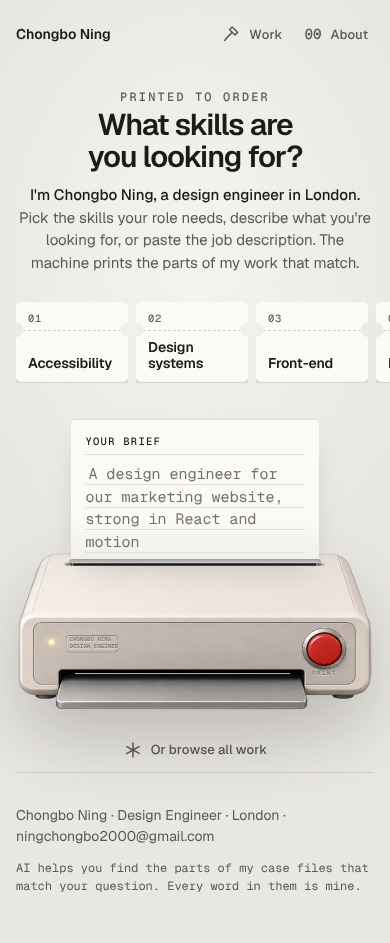
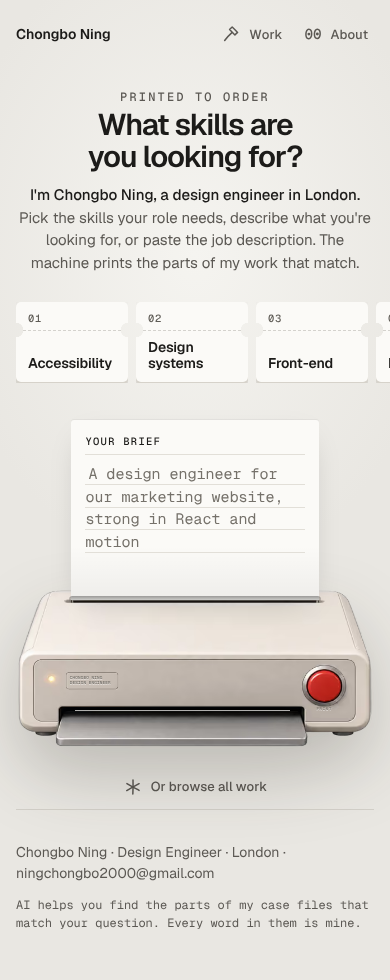
Home: one screen per sheet, a quieter ticket, text that fits the plate
Printed sheets on the wide strip now have one fixed height (one screen, at most
720px); the evidence scales down to fit whatever room the words leave (FitMedia,
never cropped), and the footer sits at the bottom of every sheet.

The taken ticket is just its dashed outline; "In the machine" is gone. The copy
in flight is a plain stub (no mask or filter) animated on transform alone, and
the row for tickets on the paper is always there, so a landing ticket no longer
makes the sheet grow and the machine shift. The paper's pre-measure height now
equals its real idle height, so nothing moves on load.

The engraved name plate and the word under the button are sized from the
machine's own width (container units), so they fit at every size instead of
being cut off.

Claude-Session: https://claude.ai/code/session_01QqmSAfmNMzTCx9ZFJoDrrH

diff --git a/src/app/printer.css b/src/app/printer.css
@@ -90,11 +90,7 @@
   mask-clip: no-clip;
   mask-composite: intersect;
   filter: drop-shadow(0 2px 0 #d6d2ca) drop-shadow(0 12px 10px rgba(40, 30, 20, 0.2));
-  transition:
-    transform 0.25s var(--ease),
-    filter 0.25s,
-    background-color 0.25s,
-    color 0.25s;
+  transition: transform 0.25s var(--ease);
 }
 /* perforation between the stub (number) and the ticket (name) */
 .topic::before {
@@ -119,7 +115,6 @@
 }
 .topic:hover {
   transform: translateY(-4px) rotate(-0.6deg);
-  filter: drop-shadow(0 2px 0 #d6d2ca) drop-shadow(0 18px 14px rgba(40, 30, 20, 0.26));
 }
 .topic:focus-visible {
   outline: 2px solid var(--focus);
@@ -143,40 +138,28 @@
 .topic[aria-pressed="true"] b {
   opacity: 0.55;
 }
-.topic .taken {
-  display: none;
+.topic[aria-pressed="true"]:hover b {
+  opacity: 0.8;
 }
-.topic[aria-pressed="true"] .taken {
-  display: block;
-  position: absolute;
-  left: 12px;
-  bottom: 10px;
-  font: 500 10px var(--mono);
-  letter-spacing: 0.08em;
-  text-transform: uppercase;
-  color: var(--red);
-  opacity: 0;
-  transition: opacity 0.2s;
-}
-.topic[aria-pressed="true"]:hover .taken,
-.topic[aria-pressed="true"]:focus-visible .taken {
-  opacity: 1;
-}
-.topic[aria-pressed="true"]:hover b,
-.topic[aria-pressed="true"]:focus-visible b {
-  opacity: 0;
-}
+/* the copy in flight: a plain stub (no notches or filter, which are costly to animate), lifted off the page */
 .topic.flying {
   transform: none;
   transition: none;
-  filter: drop-shadow(0 18px 16px rgba(40, 30, 20, 0.3));
+  mask-image: none;
+  filter: none;
+  box-shadow: 0 18px 24px -8px rgba(40, 30, 20, 0.35);
+  will-change: transform, opacity;
+}
+.topic.flying::before {
+  display: none;
 }
 
 /* ---------- the printer ----------
    Sized so the whole machine, with the paper above it, sits in the first screen on a laptop:
    the width follows the viewport height, between 440px and 680px, and the paper's idle height scales with it. */
 .stage {
-  --ph: clamp(100px, 13vh, 136px);
+  /* the paper's height before it is measured: label, three ruled lines and the row for tickets, so nothing jumps on load */
+  --ph: 170px;
   position: relative;
   width: clamp(440px, calc((100svh - 500px) * 2.2), 680px);
   max-width: 100%;
@@ -188,6 +171,8 @@
   position: relative;
   aspect-ratio: 1100 / 494;
   z-index: 2;
+  /* the engraved text is sized from the machine's width, so it fits the plate at every size */
+  container-type: inline-size;
 }
 .machine > img {
   position: absolute;
@@ -209,9 +194,9 @@
   flex-direction: column;
   justify-content: center;
   padding-left: 0.9%;
-  font: 500 clamp(5.5px, 0.82vw, 9px) / 1.3 var(--mono);
+  font: 500 1.2cqw / 1.35 var(--mono);
   color: #6e6a63;
-  letter-spacing: 0.03em;
+  letter-spacing: 0.04em;
   white-space: nowrap;
   overflow: hidden;
   text-shadow: 0 1px 0 rgba(255, 255, 255, 0.6);
@@ -303,7 +288,7 @@
   left: 86.1%;
   top: 74.2%;
   transform: translateX(-50%);
-  font: 600 clamp(6px, 0.8vw, 9px) / 1 var(--mono);
+  font: 600 1.1cqw / 1 var(--mono);
   letter-spacing: 0.2em;
   text-transform: uppercase;
   color: #7c776f;
@@ -473,14 +458,13 @@
 .field.has-text .ghost {
   display: none;
 }
-/* tickets on the paper: the same stub, smaller, number and all */
+/* tickets on the paper: the same stub, smaller, number and all. The row is always there, so a ticket landing
+   never makes the sheet grow and the machine shift under it. */
 .paper .chips {
   display: flex;
   flex-wrap: wrap;
   gap: 6px;
-}
-.paper .chips:empty {
-  display: none;
+  min-height: 28px;
 }
 .paper .chips button {
   --focus: var(--paper-ink);
@@ -681,11 +665,31 @@
   .sheets::-webkit-scrollbar {
     display: none;
   }
+  /* one screen per sheet: a fixed height, the evidence scaled to whatever room the words leave */
   .sheets .sheet {
     flex: 0 0 var(--sheet-w);
+    height: clamp(520px, calc(100svh - 200px), 720px);
     scroll-snap-align: start;
     display: flex;
     flex-direction: column;
+  }
+  .sheets .sheet > article {
+    flex: 1;
+    min-height: 0;
+    display: flex;
+    flex-direction: column;
+  }
+  .sheets .s-media {
+    flex: 1;
+    min-height: 0;
+    margin-top: var(--s4);
+    margin-bottom: 0;
+  }
+  .sheets .fit {
+    height: 100%;
+  }
+  .sheets .s-foot {
+    flex: none;
   }
   /* room after the last sheet, so it too can come to the front */
   .sheets::after {
@@ -695,9 +699,6 @@
   .sheets .s-foot {
     margin-top: auto;
     padding-top: var(--s4);
-  }
-  .sheets .s-media {
-    margin-bottom: var(--s4);
   }
   /* on a sheet this wide the claim sits above the reasoning */
   .sheets .s-head {
@@ -803,6 +804,13 @@
 }
 .s-media {
   margin-top: var(--s5);
+}
+.fit {
+  position: relative;
+  overflow: hidden;
+}
+.fit-in {
+  transform-origin: top center;
 }
 .s-media .slot-ph {
   aspect-ratio: 16 / 7;
@@ -1070,7 +1078,7 @@
     display: none;
   }
   .stage {
-    --ph: 112px;
+    --ph: 180px;
     width: 100%;
     margin-top: calc(var(--pm, var(--ph)) + var(--s4));
   }

diff --git a/src/components/PrintedToOrder.tsx b/src/components/PrintedToOrder.tsx
@@ -31,7 +31,7 @@ const sleep = (ms: number) => new Promise<void>((r) => setTimeout(r, prefersRedu
 const rnd = (a: number, b: number) => a + Math.random() * (b - a);
 const SPRING = "cubic-bezier(0.34, 1.56, 0.64, 1)";
 /** The ticket's flight: from the rack into the slot (or back). The chip on the paper appears as it lands. */
-const FLY_MS = 600;
+const FLY_MS = 560;
 /** The empty paper swaps its example every so often, with a fade rather than a typewriter, so it reads as a hint, not output. */
 const EXAMPLE_MS = 3800;
 
@@ -59,15 +59,15 @@ function fly(source: HTMLElement, from: DOMRect, to: DOMRect) {
   const dx = to.left + to.width / 2 - (from.left + from.width / 2);
   const dy = to.top + to.height / 2 - (from.top + from.height / 2);
   const scale = Math.min(1, to.height / from.height);
-  const tilt = rnd(-9, 9);
+  const tilt = rnd(-6, 6);
   const anim = copy.animate(
     [
-      { translate: "0 0", scale: "1", rotate: "0deg", opacity: 1 },
-      { translate: `${dx * 0.45}px ${dy * 0.4}px`, scale: "0.8", rotate: `${tilt}deg`, opacity: 1, offset: 0.45 },
-      { translate: `${dx}px ${dy}px`, scale: `${scale}`, rotate: "0deg", opacity: 1, offset: 0.86 },
-      { translate: `${dx}px ${dy}px`, scale: `${scale}`, rotate: "0deg", opacity: 0 },
+      { transform: "translate(0, 0) scale(1) rotate(0deg)", opacity: 1 },
+      { transform: `translate(${dx * 0.5}px, ${dy * 0.42}px) scale(0.85) rotate(${tilt}deg)`, opacity: 1, offset: 0.5 },
+      { transform: `translate(${dx}px, ${dy}px) scale(${scale}) rotate(0deg)`, opacity: 1, offset: 0.88 },
+      { transform: `translate(${dx}px, ${dy}px) scale(${scale}) rotate(0deg)`, opacity: 0 },
     ],
-    { duration: FLY_MS, easing: "cubic-bezier(0.45, 0, 0.2, 1)", fill: "forwards" },
+    { duration: FLY_MS, easing: "cubic-bezier(0.3, 0, 0.1, 1)", fill: "forwards" },
   );
   anim.onfinish = () => copy.remove();
   anim.oncancel = () => copy.remove();
@@ -145,13 +145,14 @@ export function PrintedToOrder({ cards, media, labelledBy, topics = TOPICS }: Pr
   /** Where a ticket lands on the paper: beside the last chip, or the paper's bottom-left corner when there are none. */
   const slotOnPaper = (): DOMRect | null => {
     const chips = chipsRef.current;
-    const last = chips && !chips.hidden ? (chips.lastElementChild as HTMLElement | null) : null;
+    if (!chips || chips.hidden) return null;
+    const last = chips.lastElementChild as HTMLElement | null;
     if (last) {
       const r = last.getBoundingClientRect();
       return new DOMRect(r.right + 6, r.top, r.width, r.height);
     }
-    const paper = paperRef.current?.getBoundingClientRect();
-    return paper ? new DOMRect(paper.left + 22, paper.bottom - 14 - 28, 120, 28) : null;
+    const r = chips.getBoundingClientRect();
+    return new DOMRect(r.left, r.top, 120, r.height);
   };
 
   /** A ticket is taken from the rack and dropped into the slot, or taken off the paper and put back. */
@@ -348,9 +349,6 @@ export function PrintedToOrder({ cards, media, labelledBy, topics = TOPICS }: Pr
               >
                 <small aria-hidden="true">{pad2(i + 1)}</small>
                 <b>{t.label}</b>
-                <span className="taken" aria-hidden="true">
-                  In the machine
-                </span>
               </button>
             </li>
           ))}
@@ -400,7 +398,7 @@ export function PrintedToOrder({ cards, media, labelledBy, topics = TOPICS }: Pr
                 </div>
               </div>
               <input type="hidden" name="topics" value={topicsToSignals(picked).join(",")} />
-              <div className="chips" ref={chipsRef} aria-label="Selected skills" role="group" hidden={working || !picked.length}>
+              <div className="chips" ref={chipsRef} aria-label="Selected skills" role="group" hidden={working}>
                 {picked.map((id) => {
                   const label = topicById(id)?.label ?? id;
                   const n = topics.findIndex((t) => t.id === id);

diff --git a/src/components/FitMedia.tsx b/src/components/FitMedia.tsx
@@ -1,0 +1,41 @@
+"use client";
+
+import { useLayoutEffect, useRef, type ReactNode } from "react";
+
+/**
+ * Scales its content down, never up, to fit the box it is given. On a printed sheet of fixed height the evidence
+ * (a table, a pair of phones, a recording) keeps its shape and proportions and simply prints smaller; where the box
+ * is unconstrained (a column on a phone, the /ask list) nothing changes.
+ */
+export function FitMedia({ children }: { children: ReactNode }) {
+  const box = useRef<HTMLDivElement>(null);
+  const inner = useRef<HTMLDivElement>(null);
+
+  useLayoutEffect(() => {
+    const b = box.current;
+    const c = inner.current;
+    if (!b || !c || typeof ResizeObserver === "undefined") return;
+    const fit = () => {
+      const w = b.clientWidth;
+      const h = b.clientHeight;
+      const cw = c.offsetWidth;
+      const ch = c.offsetHeight;
+      if (!w || !h || !cw || !ch) return;
+      const s = Math.min(1, w / cw, h / ch);
+      c.style.transform = s < 0.999 ? `scale(${s})` : "";
+    };
+    const ro = new ResizeObserver(fit);
+    ro.observe(b);
+    ro.observe(c);
+    fit();
+    return () => ro.disconnect();
+  }, []);
+
+  return (
+    <div className="fit" ref={box}>
+      <div className="fit-in" ref={inner}>
+        {children}
+      </div>
+    </div>
+  );
+}

diff --git a/src/components/Sheet.tsx b/src/components/Sheet.tsx
@@ -2,6 +2,7 @@ import Link from "next/link";
 import type { ReactNode } from "react";
 import type { SheetCard } from "@/lib/cards";
 import { pad2 } from "@/lib/printed";
+import { FitMedia } from "./FitMedia";
 
 type Props = {
   card: SheetCard;
@@ -42,7 +43,11 @@ export function Sheet({ card, index, total, media, current = true, headingId, as
           ))}
         </div>
       </div>
-      {media && <div className="s-media">{media}</div>}
+      {media && (
+        <div className="s-media">
+          <FitMedia>{media}</FitMedia>
+        </div>
+      )}
       <div className="s-foot">
         <span className="s-from">Case file: {card.projectTitle}</span>
         <Link className="full" href={card.href} tabIndex={current ? 0 : -1}>
